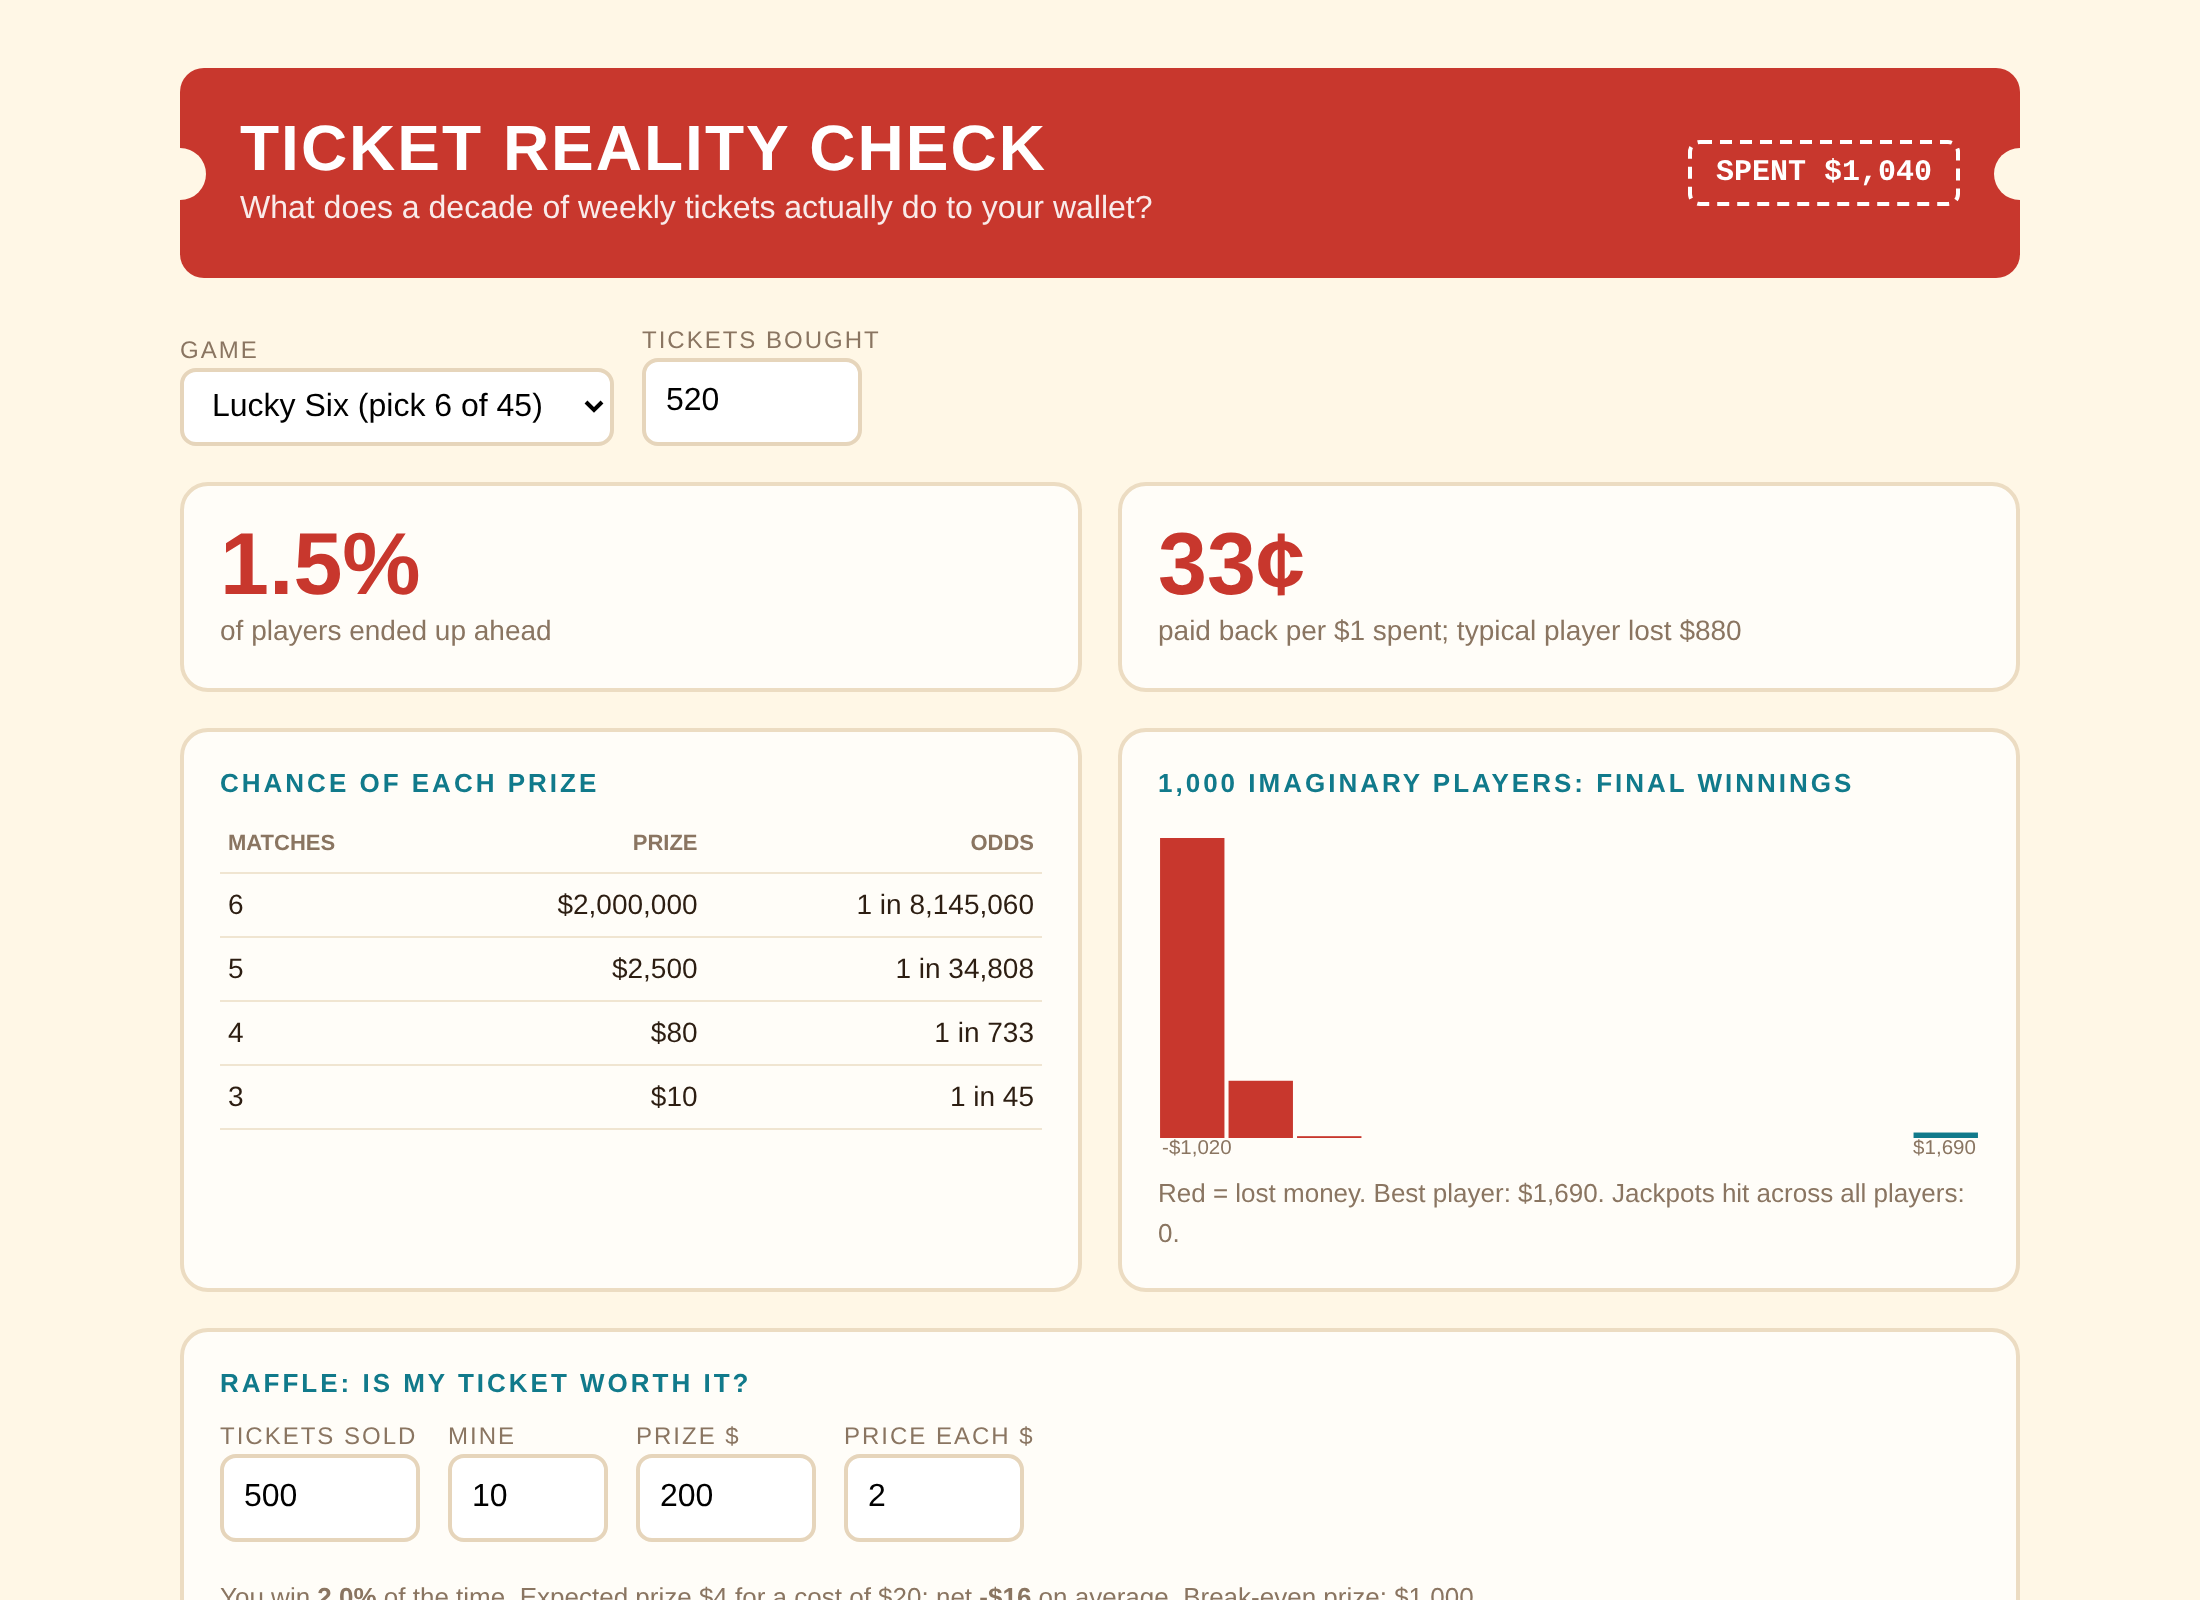
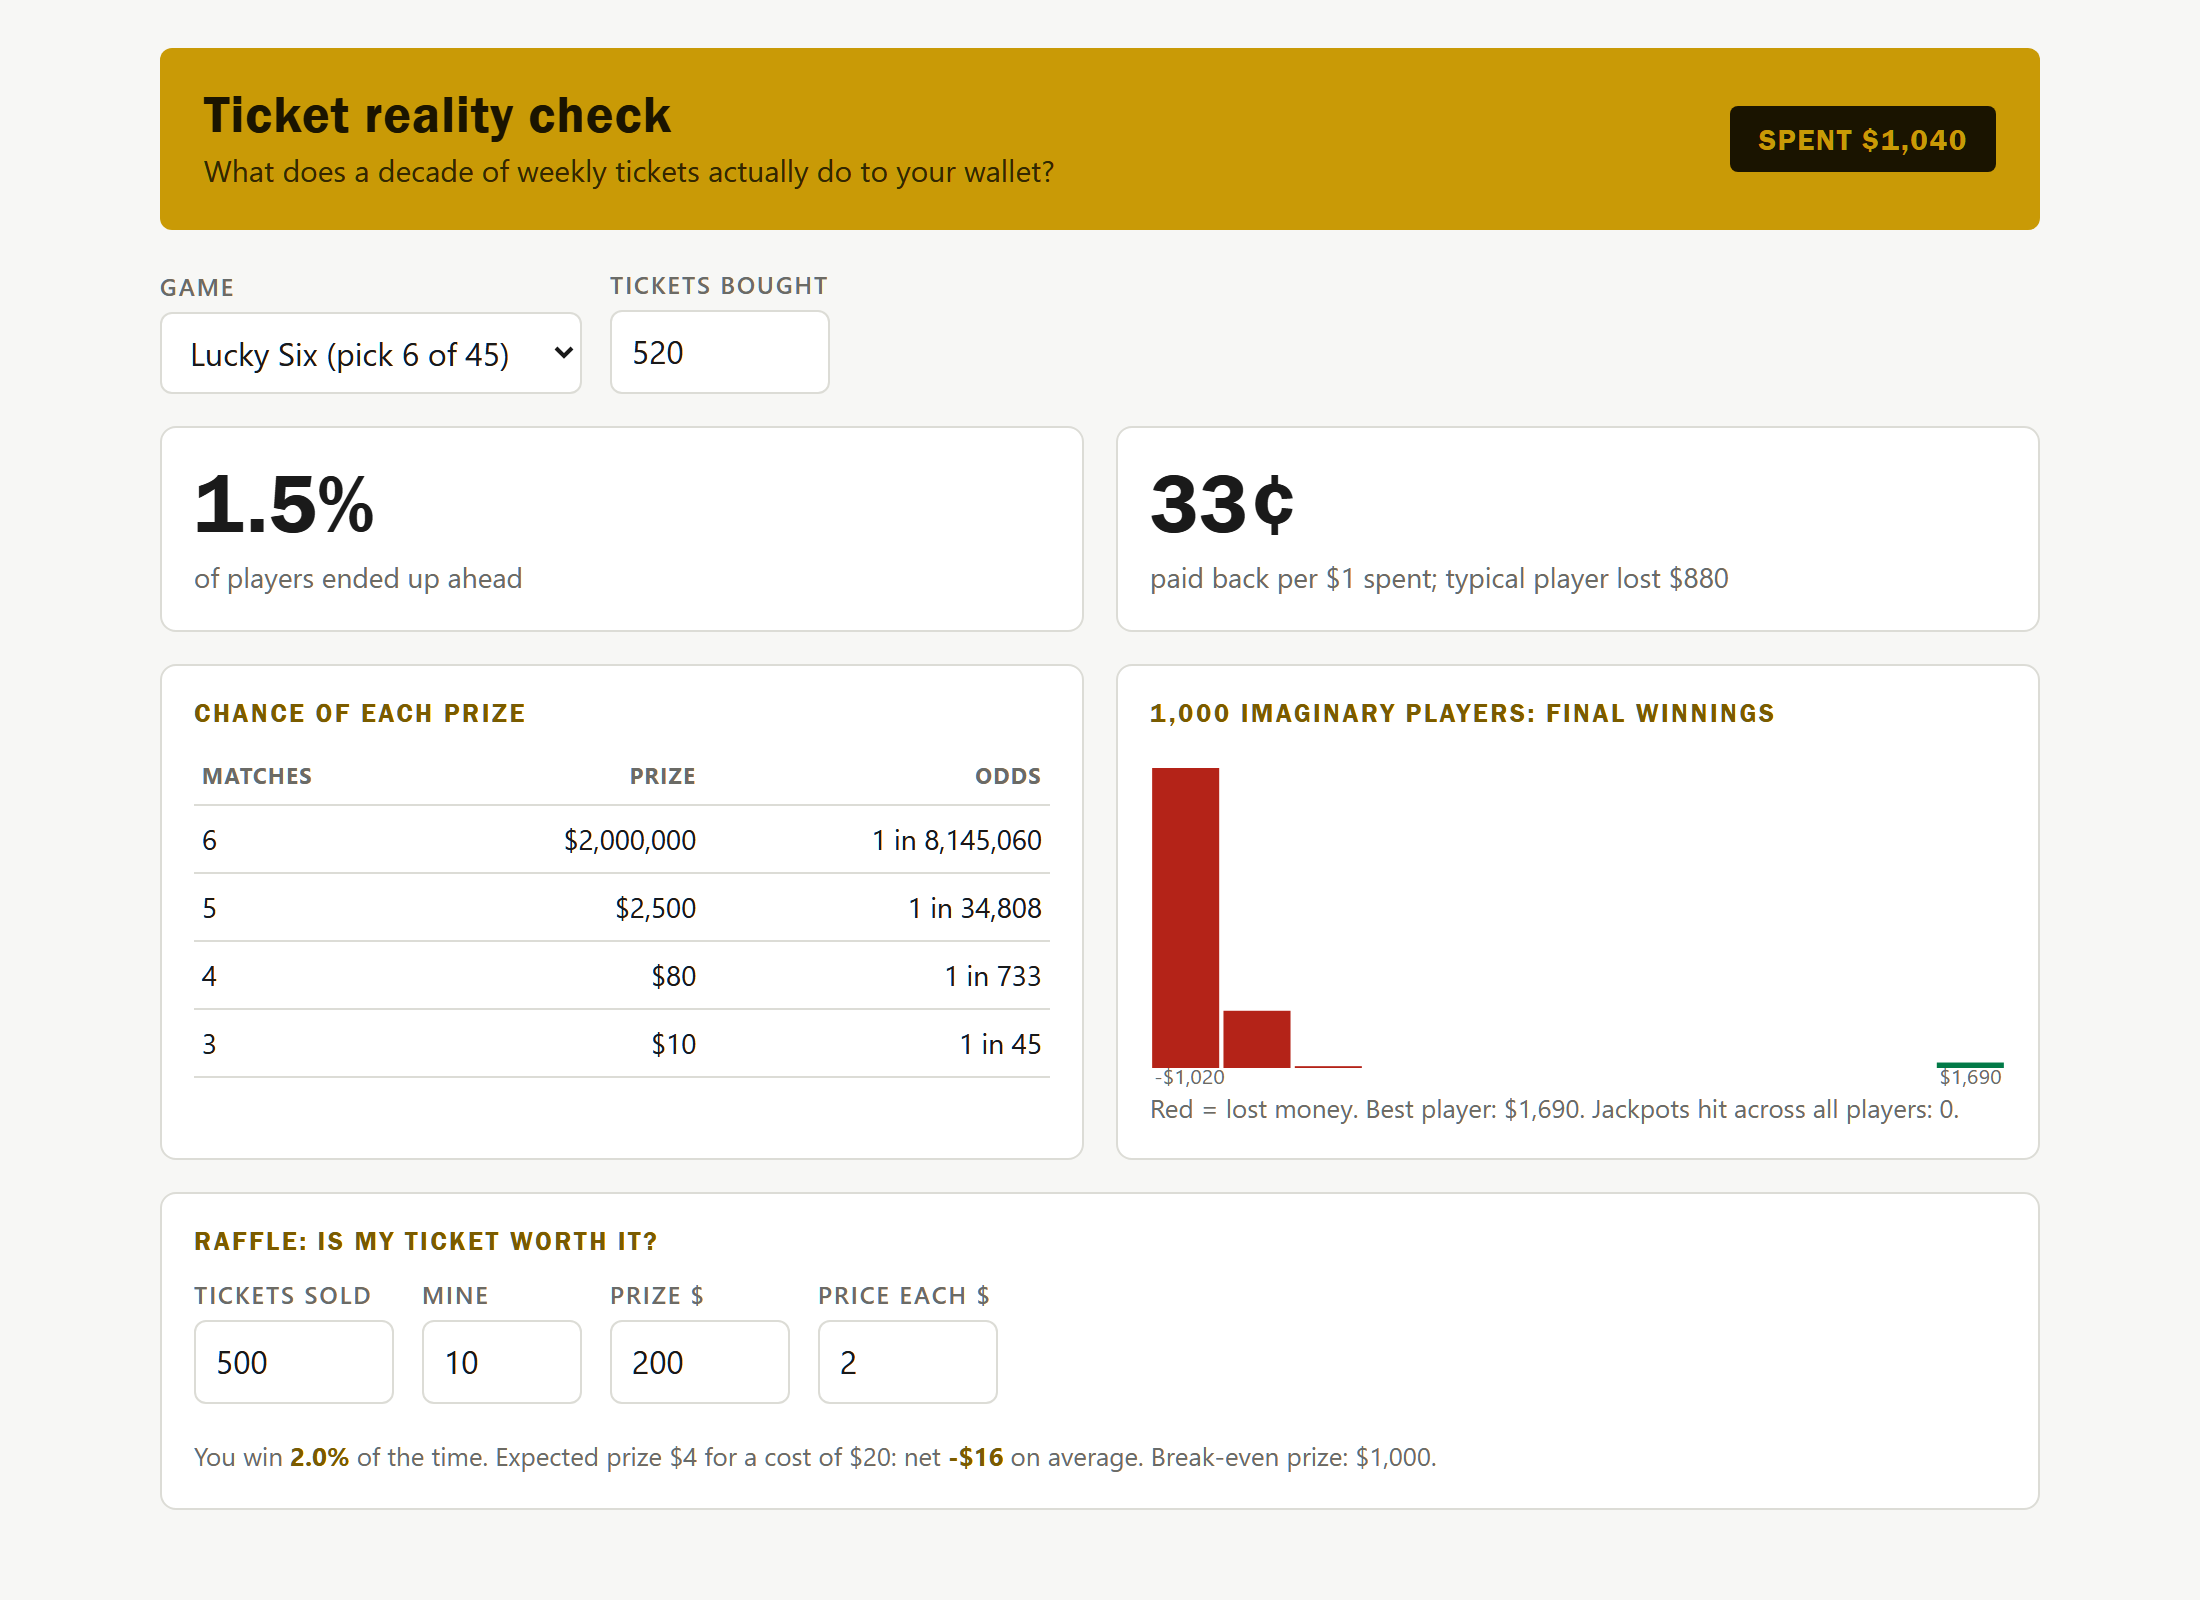
Redesign frontend: raffle-ticket-reality

Changed region(s): [[0.0618, 0.0312, 0.9273, 1.0], [0.2473, 0.5625, 0.34, 0.6875]]

diff --git a/static/index.html b/static/index.html
@@ -1,23 +1,40 @@
 <!doctype html><html lang="en"><head><meta charset="utf-8"><meta name="viewport" content="width=device-width,initial-scale=1">
 <title>Raffle Ticket Reality Check</title>
 <style>
-:root{--bg:#fff7e6;--ink:#2d1e12;--red:#c8372d;--teal:#117a8b;--mut:#8a7561;--card:#fffdf8}
-*{box-sizing:border-box}body{margin:0;background:var(--bg);color:var(--ink);font:16px/1.5 "Gill Sans","Trebuchet MS",sans-serif;padding:34px 20px}
-main{max-width:920px;margin:auto}.ticket{background:var(--red);color:#fff;padding:22px 30px;border-radius:12px;position:relative;margin-bottom:22px;display:flex;justify-content:space-between;align-items:center;gap:20px;flex-wrap:wrap}
-.ticket:before,.ticket:after{content:"";position:absolute;top:50%;width:26px;height:26px;border-radius:50%;background:var(--bg);transform:translateY(-50%)}.ticket:before{left:-13px}.ticket:after{right:-13px}
-h1{font:900 32px Impact,"Arial Black",sans-serif;margin:0;letter-spacing:1px;text-transform:uppercase}.ticket p{margin:0;opacity:.9}.ticket b{font:900 15px "Courier New",monospace;border:2px dashed #fff;padding:6px 12px;border-radius:6px}
-.row{display:flex;gap:14px;flex-wrap:wrap;margin-bottom:18px;align-items:end}label{display:block;font-size:12px;text-transform:uppercase;letter-spacing:1px;color:var(--mut)}select,input{font:inherit;padding:8px 10px;border:2px solid #e6d5bb;border-radius:8px;background:#fff}
-.g{display:grid;grid-template-columns:1fr 1fr;gap:18px}@media(max-width:760px){.g{grid-template-columns:1fr}}
-.card{background:var(--card);border:2px solid #ecdcc2;border-radius:14px;padding:18px;margin-bottom:18px}h2{font:700 13px "Gill Sans",sans-serif;text-transform:uppercase;letter-spacing:1.5px;color:var(--teal);margin:0 0 10px}
-.big b{font:900 44px Impact,sans-serif;color:var(--red);line-height:1}.big span{display:block;color:var(--mut);font-size:14px}
-table{width:100%;border-collapse:collapse;font-size:14px}td,th{padding:5px 4px;text-align:right;border-bottom:1px solid #f0e5d1}th{font-size:11px;text-transform:uppercase;color:var(--mut)}td:first-child,th:first-child{text-align:left}
-svg{width:100%;height:170px}.m{font-size:13px;color:var(--mut)}
+:root{--bg:#f7f7f5;--card:#ffffff;--ink:#1a1a1a;--gold:#c99a06;--gold-ink:#7a5c00;--loss:#b42318;--gain:#027a48;--mute:#6b6b66;--line:#dcdcd6;color-scheme:light}
+@media (prefers-color-scheme: dark){:root:not([data-theme="light"]){--bg:#121212;--card:#1d1d1c;--ink:#f2f2ee;--gold:#f0c24a;--gold-ink:#f5d46e;--loss:#ff8a80;--gain:#6ee7a6;--mute:#a3a39c;--line:#333330;color-scheme:dark}}
+:root[data-theme="dark"]{--bg:#121212;--card:#1d1d1c;--ink:#f2f2ee;--gold:#f0c24a;--gold-ink:#f5d46e;--loss:#ff8a80;--gain:#6ee7a6;--mute:#a3a39c;--line:#333330;color-scheme:dark}
+*{box-sizing:border-box}
+html,body{background:var(--bg)}
+body{margin:0;color:var(--ink);font:16px/1.5 "Segoe UI",system-ui,sans-serif;padding:24px 16px 48px}
+main{max-width:940px;margin:0 auto}
+.band{display:flex;justify-content:space-between;align-items:center;gap:16px;flex-wrap:wrap;background:var(--gold);color:#1a1400;padding:18px 22px;border-radius:6px;margin-bottom:18px}
+.band h1{font:700 26px "Franklin Gothic Medium","Arial Narrow",sans-serif;margin:0;letter-spacing:.02em}
+.band p{margin:2px 0 0;font-size:15px;opacity:.85}
+.band b{font:700 15px "Franklin Gothic Medium",sans-serif;background:#1a1400;color:var(--gold);padding:8px 14px;border-radius:4px;letter-spacing:.05em}
+.row{display:flex;gap:14px;flex-wrap:wrap;margin-bottom:16px;align-items:flex-end}
+label{display:block;font-size:12px;font-weight:600;text-transform:uppercase;letter-spacing:.08em;color:var(--mute);margin-bottom:4px}
+select,input{font:inherit;padding:8px 10px;border:1px solid var(--line);border-radius:6px;background:var(--card);color:var(--ink)}
+.g{display:grid;grid-template-columns:1fr 1fr;gap:16px}
+@media(max-width:760px){.g{grid-template-columns:1fr}}
+.card{background:var(--card);border:1px solid var(--line);border-radius:8px;padding:16px;margin-bottom:16px}
+h2{font:700 13px "Franklin Gothic Medium",sans-serif;text-transform:uppercase;letter-spacing:.1em;color:var(--gold-ink);margin:0 0 10px}
+.big b{display:block;font:700 42px "Franklin Gothic Medium","Arial Narrow",sans-serif;color:var(--ink);line-height:1.05}
+.big span{display:block;color:var(--mute);font-size:14px;margin-top:4px}
+table{width:100%;border-collapse:collapse;font-size:14px}
+td,th{padding:6px 4px;text-align:right;border-bottom:1px solid var(--line)}
+th{font-size:11px;text-transform:uppercase;letter-spacing:.06em;color:var(--mute)}
+td:first-child,th:first-child{text-align:left}
+svg{width:100%;height:170px;display:block}
+rect.loss{fill:var(--loss)}rect.gain{fill:var(--gain)}
+.m{font-size:13px;color:var(--mute)}
+#ro b{color:var(--gold-ink)}
 </style></head><body><main>
-<div class="ticket"><div><h1>Ticket reality check</h1><p>What does a decade of weekly tickets actually do to your wallet?</p></div><b id="cost"></b></div>
-<div class="row"><div><label>Game</label><select id="g"></select></div><div><label>Tickets bought</label><input id="t" type="number" min="1" max="2000" value="520" style="width:110px"></div></div>
+<header class="band"><div><h1>Ticket reality check</h1><p>What does a decade of weekly tickets actually do to your wallet?</p></div><b id="cost"></b></header>
+<div class="row"><div><label for="g">Game</label><select id="g"></select></div><div><label for="t">Tickets bought</label><input id="t" type="number" min="1" max="2000" value="520" style="width:110px"></div></div>
 <div class="g"><div class="card big" id="k1"></div><div class="card big" id="k2"></div></div>
 <div class="g"><div class="card"><h2>Chance of each prize</h2><table id="tb"></table></div><div class="card"><h2>1,000 imaginary players: final winnings</h2><svg id="sv" viewBox="0 0 400 170" preserveAspectRatio="none"></svg><div class="m" id="sm"></div></div></div>
-<div class="card"><h2>Raffle: is my ticket worth it?</h2><div class="row"><div><label>Tickets sold</label><input id="rs" type="number" value="500" style="width:100px"></div><div><label>Mine</label><input id="rm" type="number" value="10" style="width:80px"></div><div><label>Prize $</label><input id="rp" type="number" value="200" style="width:90px"></div><div><label>Price each $</label><input id="rc" type="number" value="2" style="width:90px"></div></div><div id="ro" class="m"></div></div>
+<div class="card"><h2>Raffle: is my ticket worth it?</h2><div class="row"><div><label for="rs">Tickets sold</label><input id="rs" type="number" value="500" style="width:100px"></div><div><label for="rm">Mine</label><input id="rm" type="number" value="10" style="width:80px"></div><div><label for="rp">Prize $</label><input id="rp" type="number" value="200" style="width:90px"></div><div><label for="rc">Price each $</label><input id="rc" type="number" value="2" style="width:90px"></div></div><div id="ro" class="m"></div></div>
 </main><script>
 const $=i=>document.getElementById(i);const f=n=>(n<0?'-':'')+'$'+Math.abs(Math.round(n)).toLocaleString();let tm;
 async function go(){const r=await fetch(`/analyse?game=${$('g').value}&tickets=${$('t').value}`);const j=await r.json();if(!r.ok)return;
@@ -26,7 +43,7 @@ $('k1').innerHTML=`<b>${(s.share_ahead*100).toFixed(1)}%</b><span>of players end
 $('k2').innerHTML=`<b>${Math.round(e.payout_rate*100)}¢</b><span>paid back per $1 spent; typical player lost ${f(-s.median_net)}</span>`;
 $('tb').innerHTML='<tr><th>Matches</th><th>Prize</th><th>Odds</th></tr>'+j.tiers.filter(t=>t.prize>0).map(t=>`<tr><td>${t.matches}</td><td>${f(t.prize)}</td><td>1 in ${Math.round(t.one_in).toLocaleString()}</td></tr>`).join('');
 const mx=Math.max(...s.hist.map(h=>h.count)),w=400/s.hist.length;
-$('sv').innerHTML=s.hist.map((h,i)=>`<rect x="${i*w+1}" y="${160-h.count/mx*150}" width="${w-2}" height="${h.count/mx*150}" fill="${h.to<=0?'#c8372d':'#117a8b'}"><title>${f(h.from)} to ${f(h.to)}: ${h.count} players</title></rect>`).join('')+`<text x="2" y="168" font-size="10" fill="#8a7561">${f(s.worst)}</text><text x="398" y="168" font-size="10" fill="#8a7561" text-anchor="end">${f(s.best)}</text>`;
+$('sv').innerHTML=s.hist.map((h,i)=>`<rect class="${h.to<=0?'loss':'gain'}" x="${i*w+1}" y="${160-h.count/mx*150}" width="${w-2}" height="${h.count/mx*150}"><title>${f(h.from)} to ${f(h.to)}: ${h.count} players</title></rect>`).join('')+`<text x="2" y="168" font-size="10" style="fill:var(--mute)">${f(s.worst)}</text><text x="398" y="168" font-size="10" style="fill:var(--mute)" text-anchor="end">${f(s.best)}</text>`;
 $('sm').textContent=`Red = lost money. Best player: ${f(s.best)}. Jackpots hit across all players: ${s.jackpots}.`}
 async function raf(){const q=new URLSearchParams({tickets_sold:$('rs').value,mine:$('rm').value,prize:$('rp').value,price:$('rc').value});const r=await fetch('/raffle?'+q);const j=await r.json();
 $('ro').innerHTML=r.ok?`You win <b>${(j.p_win*100).toFixed(1)}%</b> of the time. Expected prize ${f(j.expected_prize)} for a cost of ${f(j.cost)}: net <b>${f(j.net)}</b> on average. Break-even prize: ${f(j.break_even_prize)}.`:j.detail}
